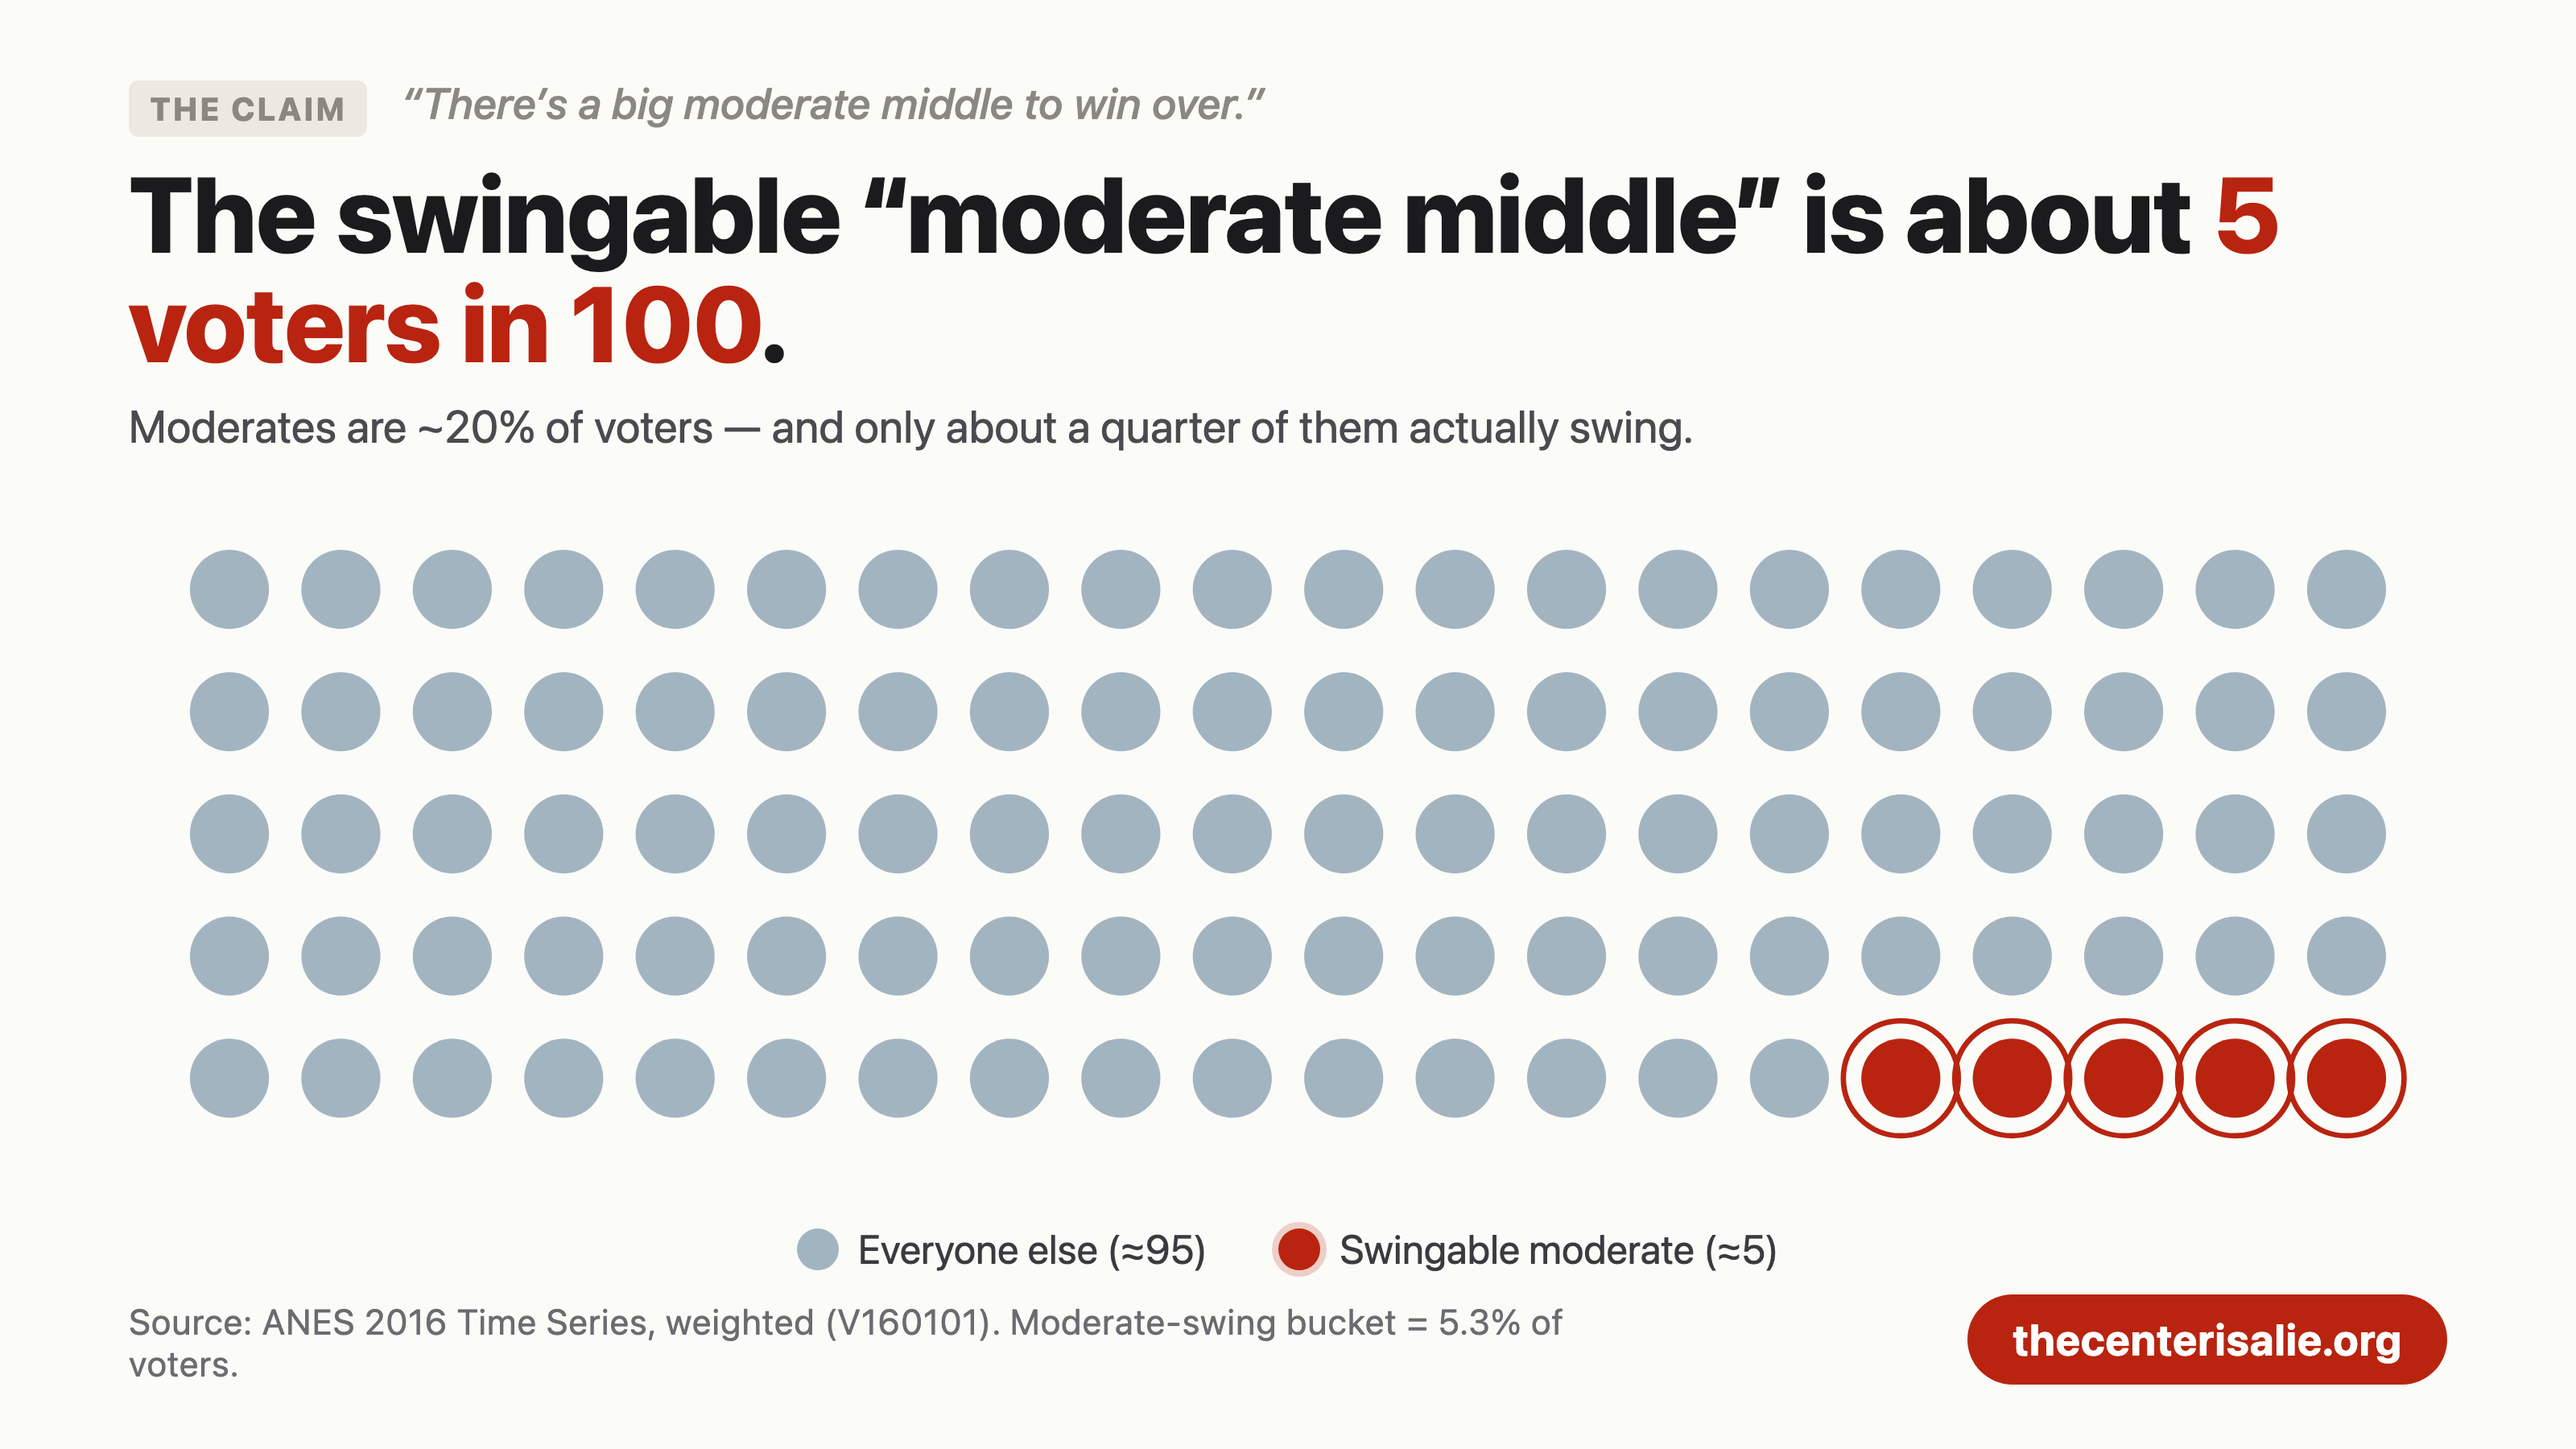
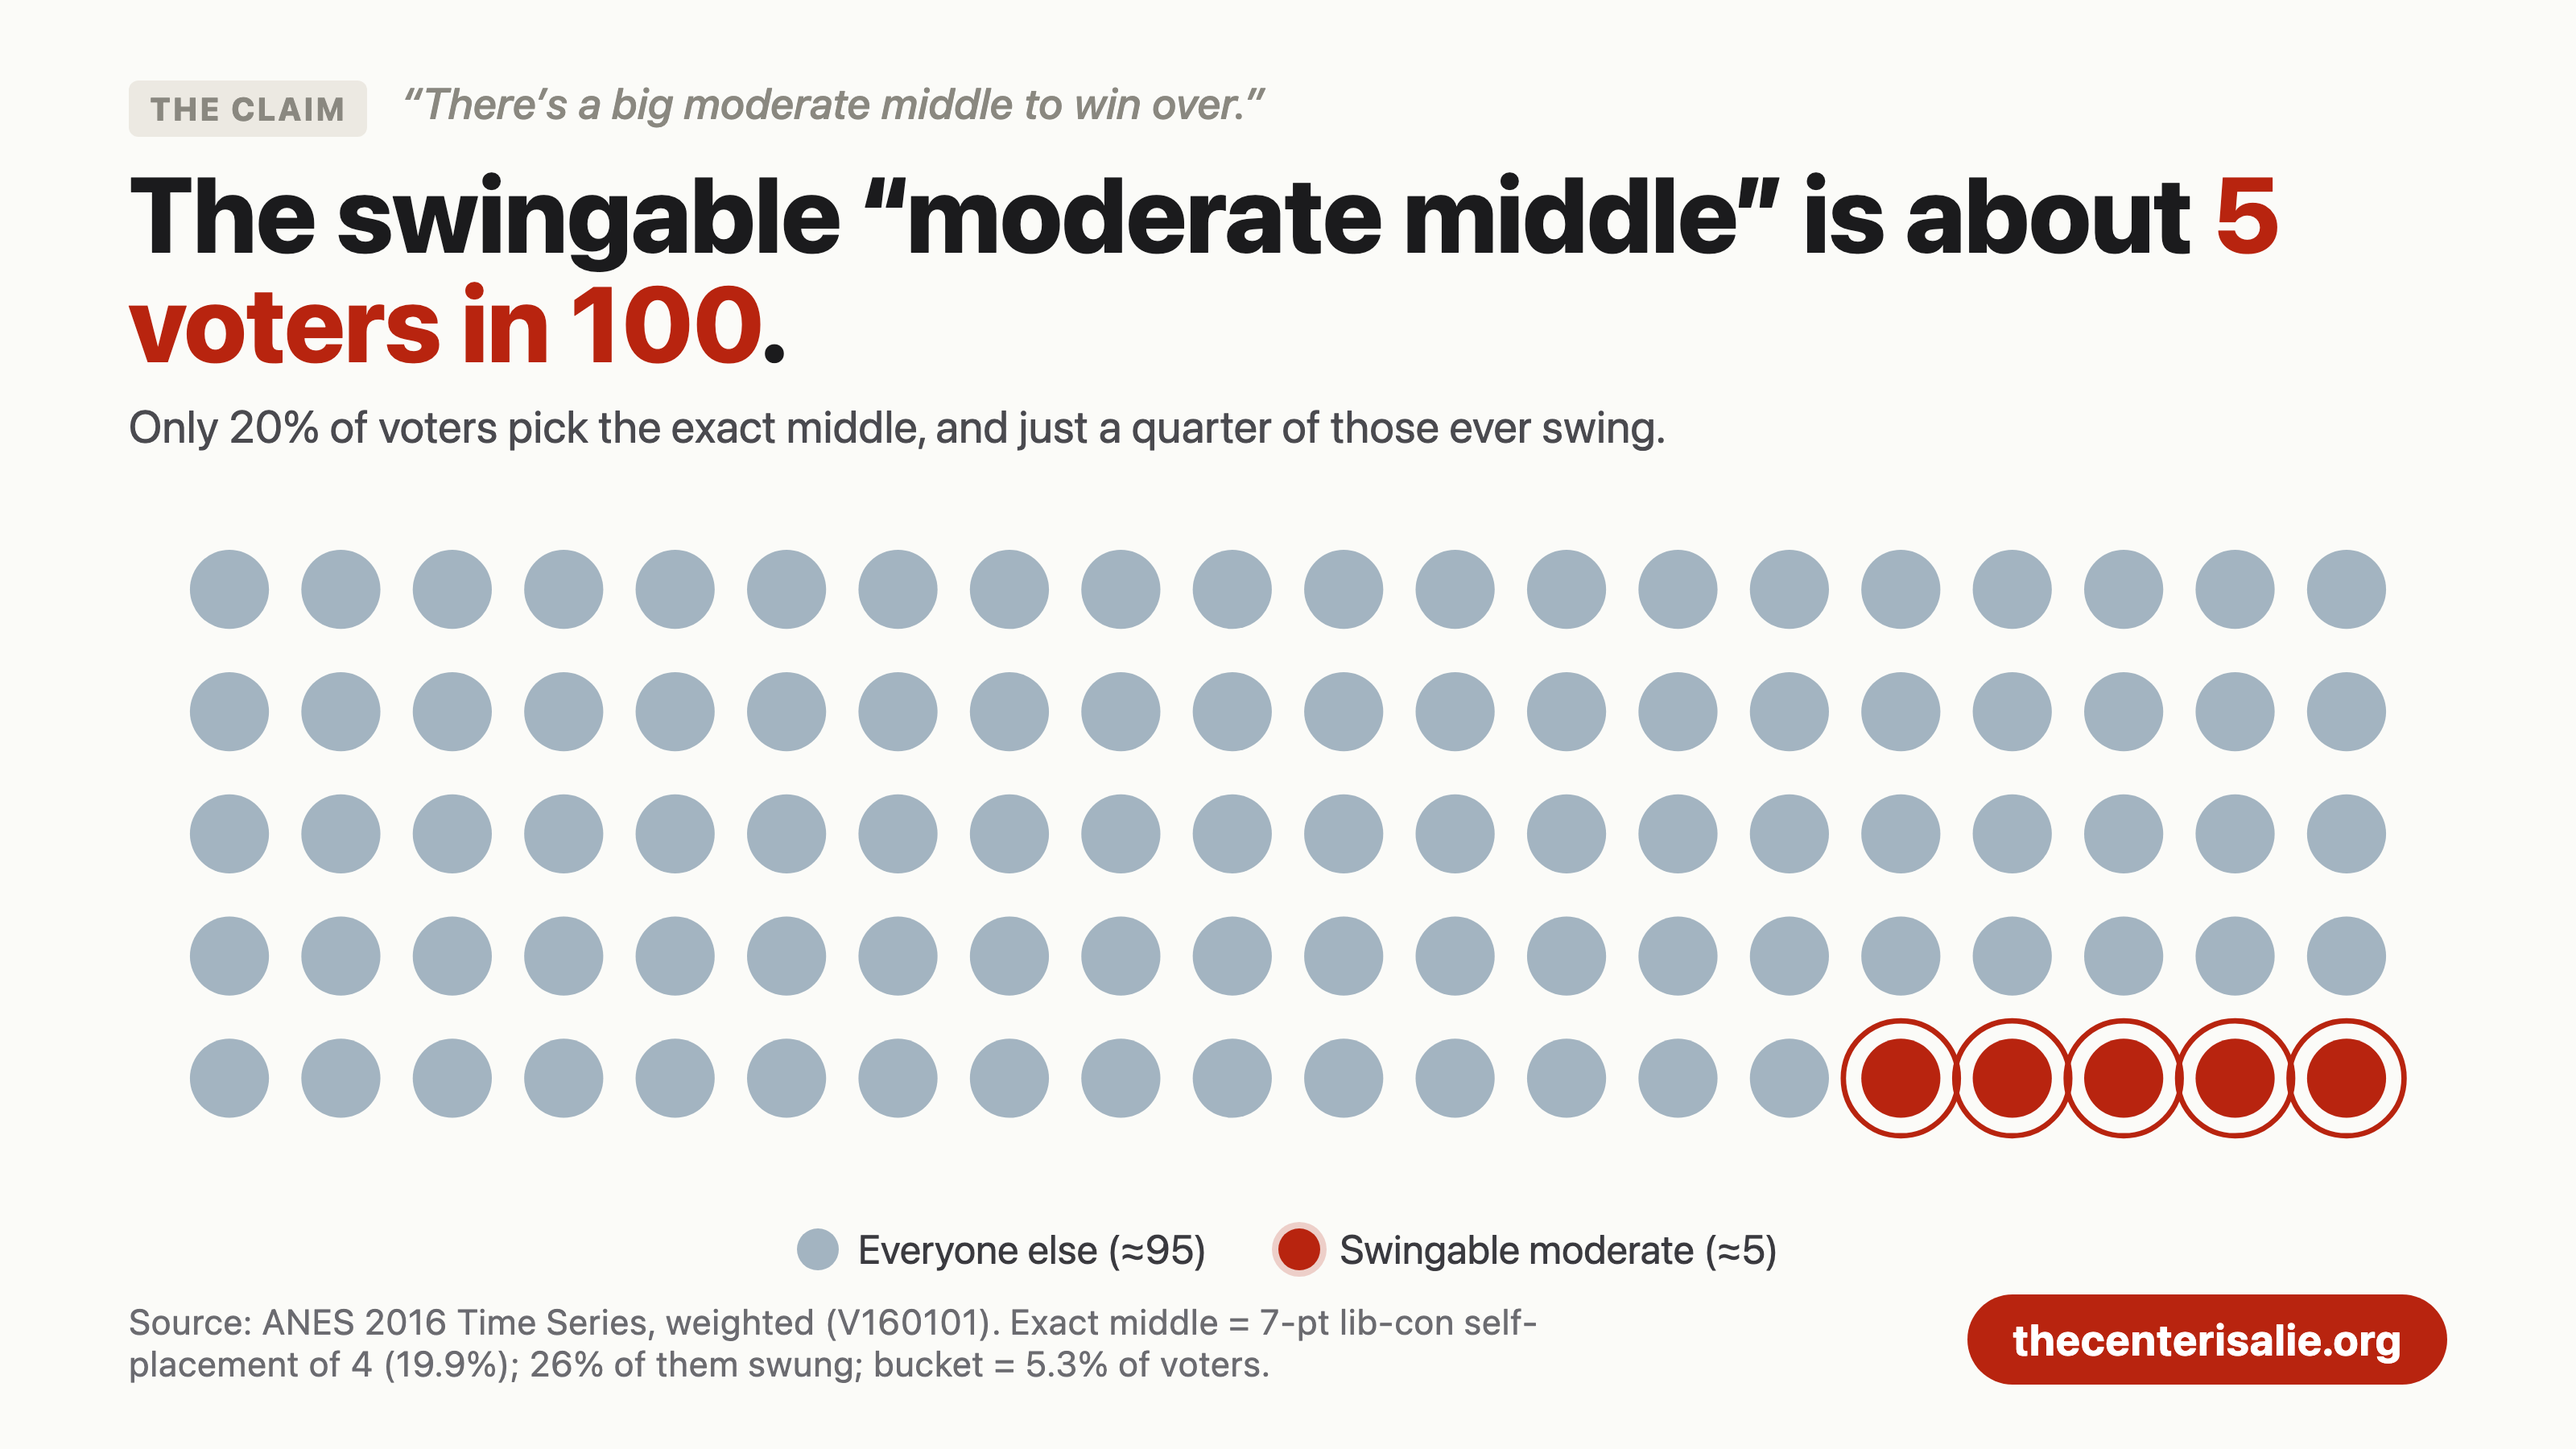
fix(data): correct §20 moderate-band description; disambiguate 1in100 vs mirage
The essay described the 20%-of-electorate figure as "positions 3-5" on the
7-pt lib-con scale. Verified against ANES 2016 (V161126, V160101):

  code 4 only    19.9%   <- the figure §20 actually reports
  codes {3,4,5}  40.4%   <- the figure §2's funnel reports

Both numbers were right; the §20 prose named the wrong band, which made
the 1in100 and mirage share cards read as contradicting each other. Fixed
the sentence, spelled out the five-band collapse in fn 55, and reworded
both cards so "at or near the middle" (40) and "the exact middle" (20) are
visibly different quantities.

Changed region(s): [[0.0312, 0.9022, 0.5938, 0.9644], [0.0312, 0.28, 0.6562, 0.3111]]

diff --git a/web/og-cards/chart-1in100.html b/web/og-cards/chart-1in100.html
@@ -4,19 +4,19 @@
   <div class="chartcard">
     <div class="cc-claim"><span class="tag">The claim</span> &ldquo;Persuadable / swing voters are moderate or centrist.&rdquo;</div>
     <div class="cc-title">Only <span class="hl">1 in 100</span> voters is a real centrist.</div>
-    <div class="cc-sub">40 in 100 call themselves &ldquo;moderate.&rdquo; Just one is centrist on every issue.</div>
+    <div class="cc-sub">40 in 100 place themselves at or near the middle. Exactly one is centrist on every issue.</div>
 
     <div class="cc-chart"><svg id="waffle" viewBox="0 0 1290 450" role="img"
       aria-label="Waffle of 100 dots: 60 non-moderate, 39 self-described moderate, 1 true centrist circled"></svg></div>
 
     <div class="cc-legend">
       <div class="item"><span class="dot" style="background:#c9c7bf"></span>Not moderate (60)</div>
-      <div class="item"><span class="dot" style="background:#8b97a3"></span>Says &ldquo;moderate&rdquo; (40)</div>
+      <div class="item"><span class="dot" style="background:#8b97a3"></span>Places self at/near middle (40)</div>
       <div class="item"><span class="dot dot--ring" style="background:#b8240f"></span>Centrist on every issue (1)</div>
     </div>
 
     <div class="cc-foot">
-      <div class="cc-source">Source: ANES 2016 Time Series, weighted (V160101). &ldquo;True Middler&rdquo; = 0.81% of voters.</div>
+      <div class="cc-source">Source: ANES 2016 Time Series, weighted (V160101). At/near middle = 7-pt lib-con self-placement in {3,4,5}, 40.4%. &ldquo;True Middler&rdquo; = 0.81% of voters.</div>
       <div class="cc-btn">thecenterisalie.org</div>
     </div>
   </div>

diff --git a/web/index.html b/web/index.html
@@ -2979,8 +2979,8 @@
 
     <p class="lede">
       Imagine you’re planning a 2028 presidential campaign. You’re in the war room and you
-      pull up the ANES data on swing voters. Voters who put themselves at positions 3–5 on
-      ANES’s 7-point liberal-conservative scale represent about <strong>20% of the
+      pull up the ANES data on swing voters. Voters who put themselves at the exact midpoint
+      (position 4) of ANES’s 7-point liberal-conservative scale represent about <strong>20% of the
       electorate</strong>. The bad news is that only <strong>26%</strong> of those self-declared
       moderates actually swung their vote from what their self-described partisanship would have
       predicted. But the good news is that it’s the highest swing rate of any ideological
@@ -3062,7 +3062,9 @@
       <summary>How we know</summary>
       <ol class="footnotes" start="55">
         <li id="fn-20-1" value="55">
-          ANES 2016, swing voters by ideology (lib-con 7-pt band), swing rate / mean trust:
+          ANES 2016, swing voters by ideology (<code>V161126</code>, 7-pt lib-con, collapsed to
+          five bands: strong-left {1,2}, lean-left {3}, moderate {4}, lean-right {5},
+          strong-right {6,7}), swing rate / mean trust:
           <strong>strong-left 7% / 0.24; lean-left 16% / 0.17; moderate 26% / 0.22;
           lean-right 21% / 0.21; strong-right 5% / 0.12.</strong> Moderate swing rate is the
           highest, but moderates are only ~20% of the electorate, so the <em>moderate swing

diff --git a/web/og-cards/chart-mirage.html b/web/og-cards/chart-mirage.html
@@ -4,7 +4,7 @@
   <div class="chartcard">
     <div class="cc-claim"><span class="tag">The claim</span> &ldquo;There&rsquo;s a big moderate middle to win over.&rdquo;</div>
     <div class="cc-title">The swingable &ldquo;moderate middle&rdquo; is about <span class="hl">5 voters in 100</span>.</div>
-    <div class="cc-sub">Moderates are ~20% of voters &mdash; and only about a quarter of them actually swing.</div>
+    <div class="cc-sub">Only 20% of voters pick the exact middle, and just a quarter of those ever swing.</div>
 
     <div class="cc-chart"><svg id="mirage" viewBox="0 0 1290 360" role="img"
       aria-label="Waffle of 100 dots in 20 by 5; the last 5 highlighted as swingable moderates"></svg></div>
@@ -15,7 +15,7 @@
     </div>
 
     <div class="cc-foot">
-      <div class="cc-source">Source: ANES 2016 Time Series, weighted (V160101). Moderate-swing bucket = 5.3% of voters.</div>
+      <div class="cc-source">Source: ANES 2016 Time Series, weighted (V160101). Exact middle = 7-pt lib-con self-placement of 4 (19.9%); 26% of them swung; bucket = 5.3% of voters.</div>
       <div class="cc-btn">thecenterisalie.org</div>
     </div>
   </div>
